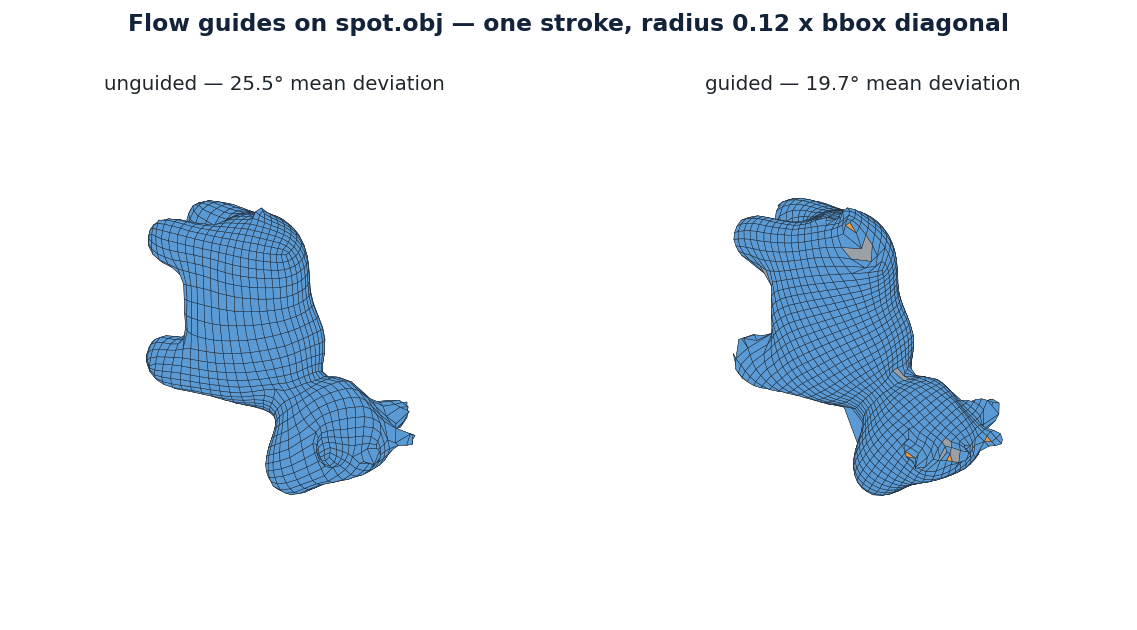
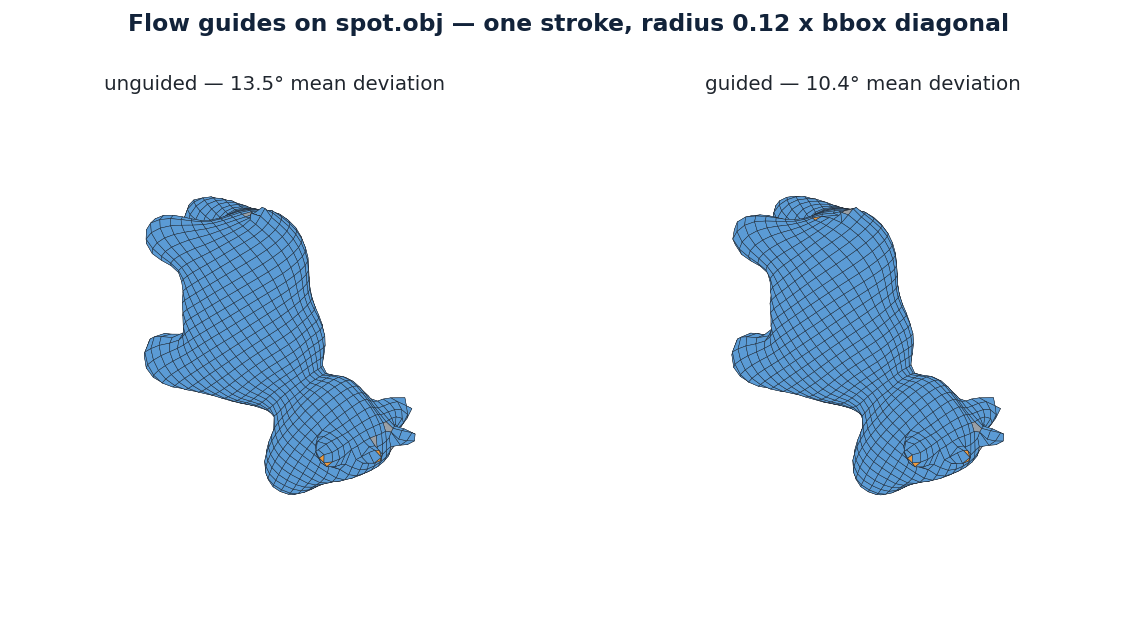
docs: document flow guides and soft selection, and show the galleries that existed
Two features shipped in 0.6.0 with working examples and committed renders that
the README never mentioned: flow guides (`FlowGuide`, painted density) and soft
selection. A reader had no way to discover either. Two more — export presets and
auto-routed seam paths — had prose sections but never pointed at their example or
showed the picture that explains them.

- New **Flow guides and painted density** section, with the measured gate:
  10.98 degrees mean and 13.77 worst across six runs against a <= 15 degree
  bound, folded mod 90 so a random field scores 22.5. Notes that guides force
  the native solver because the vendored quad_cover has no guide hook, and that
  a forced fallback reports the guidance as unhonoured rather than silently
  returning an unguided mesh.
- New **Soft selection** section, leading with the part that is easy to miss:
  the Target re-projection happens INSIDE the transform, so there is no
  snap-all cleanup pass to drag the untouched vertices.
- `20_seam_paths.png` and `19_export_presets.png` wired into the sections that
  already described them.
- `examples/README.md` was stale too: it indexed up to 16_subdivide and listed
  none of 16_soft_selection, 17_flow_guides, 18_sculpt_handoff, 19_export_presets
  or 20_seam_paths. Added, and the main README now links that index instead of
  leaving thirteen rendered examples undiscoverable.

17_flow_guides.png is regenerated. The committed one dated from 2a5a267, before
[…]

diff --git a/README.md b/README.md
@@ -57,6 +57,10 @@ position-field extractor), and **`integer`** (experimental integer parametrizati
 
 <sub>Real scanned / CAD models → quad-dominant retopology · <code>examples/09_test_models.py</code></sub>
 
+Twenty-one runnable examples drive the engine through the Python binding and
+render what they do; [`examples/README.md`](examples/README.md) indexes them,
+and `examples/run_all.py` runs the lot into a stitched gallery.
+
 Every strategy feeds a pure-quad path (subdivision + surface-projected relaxation)
 for a 100%-quad result. `examples/10_vs_reference.py` and `examples/11_benchmark.py`
 score the output side-by-side against QuadriFlow and AutoRemesher. Both fetch and
@@ -131,6 +135,10 @@ mesh.unwrap_seams(seams)                           # parameterize along YOUR cut
 mesh.stitch_seams(seams, undo)                     # ...or sew them back shut
 ```
 
+![Auto-routed seam path following a groove versus the shortest path](examples/output/20_seam_paths.png)
+
+<sub>A to B across a grooved plate: the routed seam rides concave edges for 100% of its length and never leaves the trench, where the uniform-cost shortest path climbs straight out and back in · <code>examples/20_seam_paths.py</code></sub>
+
 `Mesh.unwrap_seams` (C: `cyber_uv_unwrap_seams`) is the counterpart to the
 automatic atlas: `unwrap_atlas` decides its own cuts and ignores what you
 marked, while this one takes the seam set you built — by hand or by committing a
@@ -139,6 +147,56 @@ re-orients and packs them, and reports through the same `AtlasResult`. An empty
 seam set means *do not cut*, never *decide for me*. `Mesh.stitch_seams`
 (`cyber_uv_stitch_seams`) is the inverse: it removes the given edges from the
 set and welds the corners across each one.
+
+### Flow guides and painted density
+
+Where the automatic field puts loops somewhere you disagree with, you draw over
+it instead of fighting the parameters. A `FlowGuide` is an ordered polyline on
+or near the surface; the cross field is softly biased toward the stroke's
+tangent within `radius`, scaled by `strength`. It is a bias, not a constraint —
+the guide competes with the smoothness term rather than overriding it, so the
+influence decays outside the radius instead of leaving a hard edge at it.
+
+```python
+from cyberremesh import FlowGuide, RemeshParams, remesh
+
+guide = FlowGuide(points=stroke_xyz, strength=1.0, radius=0.12 * bbox_diagonal)
+out = remesh(source, RemeshParams(target_quad_count=3000), guides=[guide])
+```
+
+Measured as mean angular deviation of the extracted quad edges from the guide
+tangent inside the radius, folded mod 90° so a random field scores 22.5°:
+**10.98° mean and 13.77° worst across six runs** on the community corpus,
+against a ≤15° gate. `examples/17_flow_guides.py` is the artifact those numbers
+come from — it prints what it measures, met or not.
+
+![Flow guides: unguided versus guided remesh of the same mesh](examples/output/17_flow_guides.png)
+
+<sub>One stroke at 0.12 × bbox diagonal — unguided 13.5° mean deviation, guided 10.4° · <code>examples/17_flow_guides.py</code></sub>
+
+Guides force the native seamless solver: the vendored Geogram `quad_cover` has
+no hook for either a guide or a painted density, so routing a guided island
+there would silently drop the input. If that fallback ever happens anyway
+(`CYBER_QC_NO_NATIVE`), the run **reports the guidance as unhonoured and names
+the variable** rather than returning an unguided mesh that looks like a
+successful one.
+
+### Soft selection
+
+The manual-retopology stage has tweak, relax and rigid transforms; soft
+selection adds the gradient region on top. A line, sphere or painted stroke sets
+a per-vertex weight, four falloff curves shape it (`LINEAR`, `SMOOTH`, `SHARP`,
+`ROUND`), and the weighted transform and relax consume it.
+
+The part worth knowing is that the Target re-projection happens **inside** the
+transform. Passing a `Snapper` glues the moved vertices to the sculpt in the
+same call, so there is no snap-all cleanup pass afterwards — which would drag
+the untouched vertices too. Vertices at weight 0 are never moved and never
+re-snapped, and that is asserted rather than assumed.
+
+![Soft selection: weight field, weighted taper, falloff curves, movement versus weight](examples/output/16_soft_selection.png)
+
+<sub>The weight field painted on the mesh, the same taper run free and snapped to the Target, the four falloff curves read back out of the engine, and per-vertex movement against weight — where zero-weight geometry sits exactly on 0 · <code>examples/16_soft_selection.py</code></sub>
 
 ### Per-DCC export presets
 
@@ -199,6 +257,10 @@ result.files                                       # mesh + one per baked map
 
 Listing, resolving and reading a preset works in every build; only
 `write_bundle` needs the UV-gated bundle module, and says so where it is absent.
+
+![Export presets: the same bake packaged for each target app](examples/output/19_export_presets.png)
+
+<sub>One remesh, four bundles. Only the normal map's green channel differs — unreal writes −Y (DirectX), every other preset +Y (OpenGL); AO, curvature and color are texel-identical across all four · <code>examples/19_export_presets.py</code></sub>
 
 **Cost:** the AO bake dominates a preset run — about 96% of it — and scales with
 texel count, so the default 2048² map set takes minutes on a desktop CPU. Use

diff --git a/examples/README.md b/examples/README.md
@@ -29,6 +29,11 @@ so quad-dominance reads at a glance.
 | `14_uv_atlas.py` | automatic UV atlas (auto-seam → LSCM → re-orient → skyline pack) | `output/14_uv_atlas.png` |
 | `15_uv_vs_xatlas.py` | UV atlas benchmark vs the xatlas reference (distortion / charts / packing) | `output/15_uv_vs_xatlas.png` |
 | `16_subdivide.py` | `Mesh.subdivide` — linear subdivision, with and without reprojection | `output/16_subdivide.png` |
+| `16_soft_selection.py` | soft selection — gradient regions, weighted edits, snapped to the Target inside the transform | `output/16_soft_selection.png` |
+| `17_flow_guides.py` | flow guides and painted density — guided vs unguided, with the angular-deviation gate | `output/17_flow_guides.png` |
+| `18_sculpt_handoff.py` | versioned sculpt handoff end to end, from a synthetic producer | `output/18_sculpt_handoff.png` |
+| `19_export_presets.py` | per-DCC export presets — one bake, four bundles, only the normal green channel differing | `output/19_export_presets.png` |
+| `20_seam_paths.py` | auto-routed UV seam paths — valley-biased routing vs the uniform-cost shortest path | `output/20_seam_paths.png` |
 | `run_all.py` | runs all of the above + a stitched `output/gallery.png` | `output/gallery.png` |
 
 `08_load_model.py` loads a mesh and converts it to quads. It defaults to a
